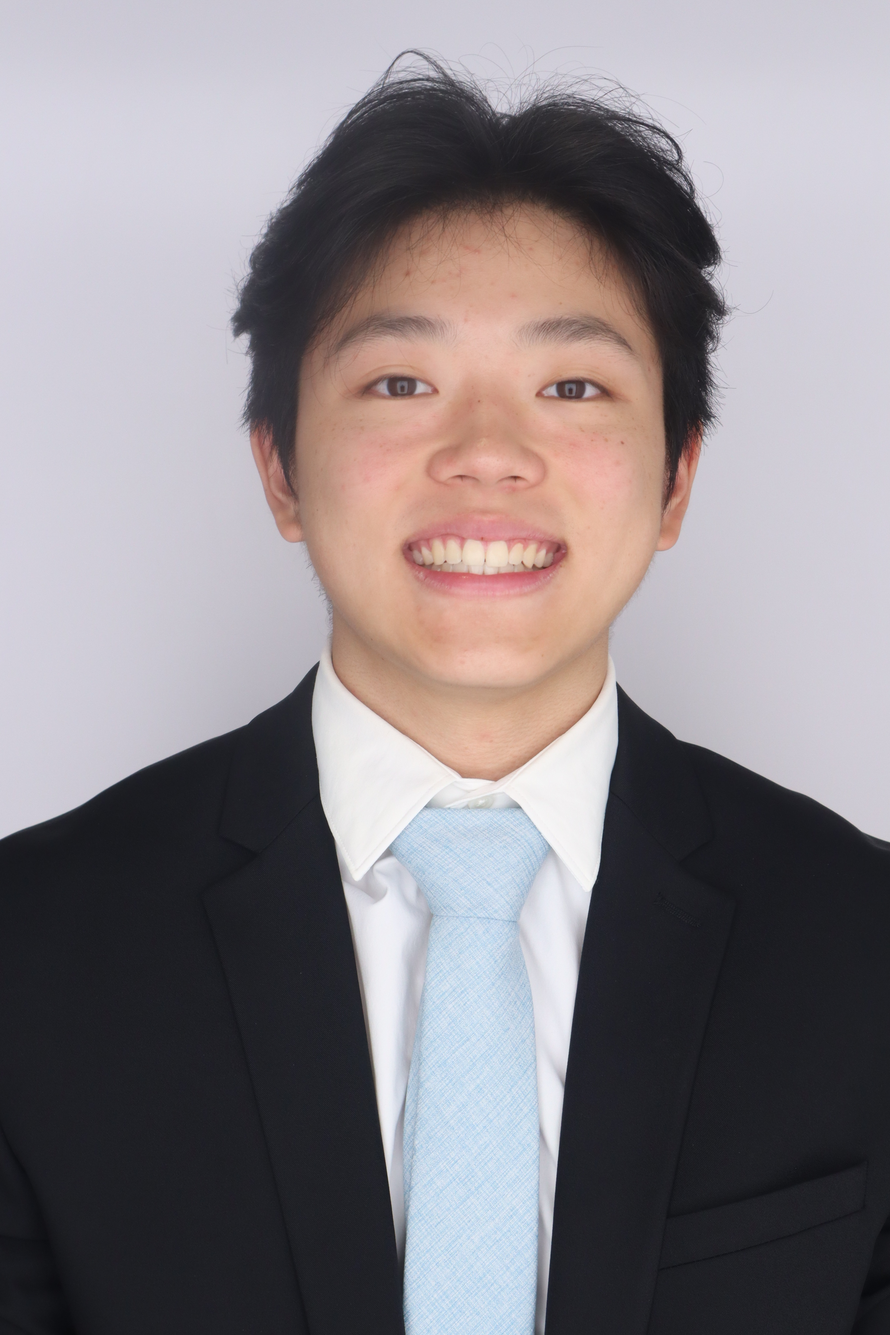
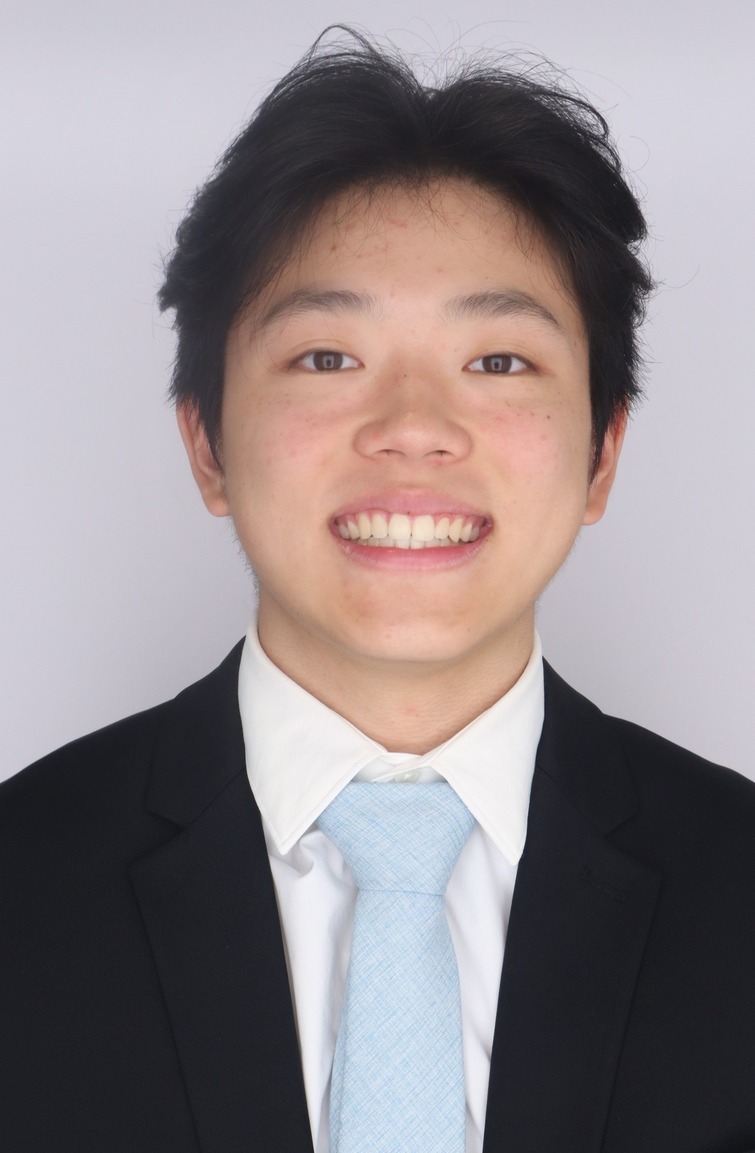
Touched up portfolio

Changed region(s): [[0.0, 0.0, 1.0, 1.0], [0.5249, 0.1555, 0.5867, 0.1866]]

diff --git a/jameshuang.html b/jameshuang.html
@@ -36,7 +36,7 @@
     <!-- Main front text info -->
     <h1>James Huang's Portfolio</h1>
     <!-- Description of what the website entails -->
-    <p>Welcome to my portfolio traveler! I'm currently a college student attending Vanderbilt University.</p>
+    <p>Welcome to my portfolio traveler! I'm a junior attending Vanderbilt University in Nashville, TN.</p>
     <!-- A click button that can take the user to another interface -->
     <a href="" class="hero-btn">Click Me for More Info</a>
 </div>
@@ -45,26 +45,26 @@
 
 <!-- This sections covers the next portion of the portfolio -->
 <section class="description">
-    <h1>About me</h1>
-    <p>Majors: Computer Science & Applied Mathematics. <br> Minor: Human and Organizational Developement</p>
+    <h1>All About Me</h1>
+    <p>Majors: Computer Science and Applied Mathematics <br> Minor: Human and Organizational Developement</p>
 
     <div class="row">
         <div class="me-col">
-            <h3>Interest</h3>
-            <p>I'm interesting in Quantitative Trading, Software Engineering, and Full-Stack Developement. I also
-                enjoy consulting, film, and learning new things. I love a challenge and problem solving.
+            <h3>Interests</h3>
+            <p>I'm interested in Quantitative Trading/Analyst, Software Engineering/Development, System Integration, 
+                and Full-Stack Development. I also enjoy management consulting, film, and learning new things and tricks. 
             </p>
         </div>
         <div class = "me-col">
             <h3>Hobbies</h3>
-            <p>I like to play baseball, basketball, and other sports activities. I enjoy working out,
-                eating all kinds of cusines, and traveling to different areas around the world.  
+            <p>I like to play and watch baseball, basketball, football, and other sports activities. I also hang out with family
+                and friends, gym regularly, eat all kinds of various cuisines, and fly/travel to explore the world.  
             </p>
         </div>
         <div class = "me-col">
             <h3>Passion</h3>
-            <p>I am working on creating youtube content for my personal journal. I am also finding 
-                time to create my own portfolio. Lastly, I am trying to lean a new language and sign language.
+            <p>On my free time, I like to create youtube/tiktok content for my personal journal and vlog. In addition, I am
+                exploring and strengthing my coding skills. Lastly, I am trying to lean a new language and sign language.
             </p>
         </div>
     </div>
@@ -72,20 +72,20 @@
 
 <!-- Photo Section -->
 <section class="photo">
-    <h1>Album</h1>
-    <p>just photos of me</p>
+    <h1>Photo Album</h1>
+    <p>Please reach out if you have any questions!</p>
 
     <div class="row">
         <div class="me-col">
             <img src="images/me_nyc.jpg">
             <div class="layer">
-                <h3>I Enjoy photography</h3>
+                <h3>I Like Photography</h3>
             </div>
         </div>
         <div class="me-col">
             <img src="images/me.jpg">
             <div class="layer">
-                <h3>Professional Shot</h3>
+                <h3>My Professional Shot</h3>
             </div>
         </div>
         <div class="me-col">

diff --git a/style.css b/style.css
@@ -40,6 +40,7 @@ nav img{
     color: #000000;
     text-decoration: none;
     font-size: 18px;
+    background: rgba(255, 255, 255, 0.2);
 }
 /* This creates the underline below the hyperlinks*/
 .nav-links ul li::after{
@@ -74,7 +75,7 @@ when the mouse hovers over the hyperlinks */
 }
 /* This changes the font of the 2nd and spaces out the 3rd text box */
 .text-box p{
-    margin: 1px 0 30px;
+    margin: 20px 0 30px;
     font-size: 20px;
     font-weight: bold;
     color: #fddddd;
@@ -220,12 +221,12 @@ h3{
 }
 /* This adds the hover feature */
 .layer:hover{
-    background: rgba(226,0,0,0.5);
+    background: rgba(255, 148, 148, 0.4);
 }
 /* Sets the texts within the bottom of the images */
 .layer h3{
     width: 100%;
-    font-weight: 500;
+    font-weight: 800;
     color: #fff;
     font-size: 30px;
     bottom: 0;
@@ -236,6 +237,6 @@ h3{
 }
 /* Sets up the hover option for the text */
 .layer:hover h3 {
-    bottom: 49%;
+    bottom: 50%;
     opacity: 1;
 }
